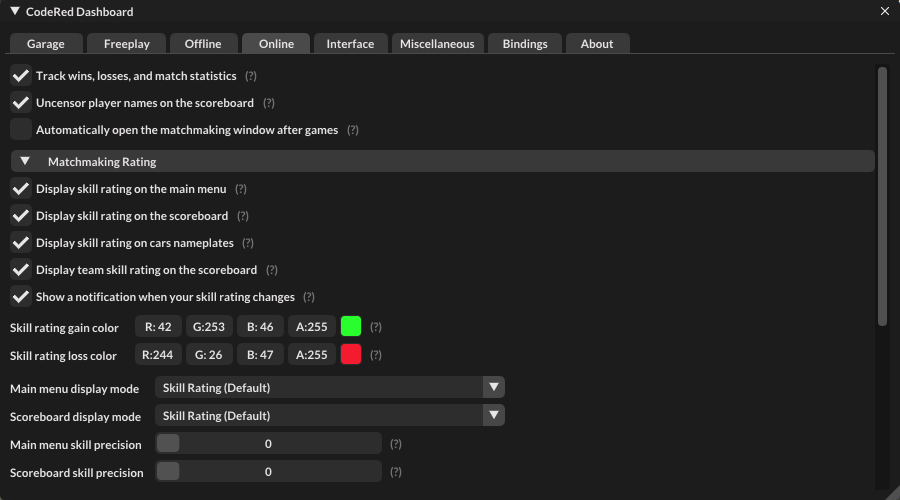
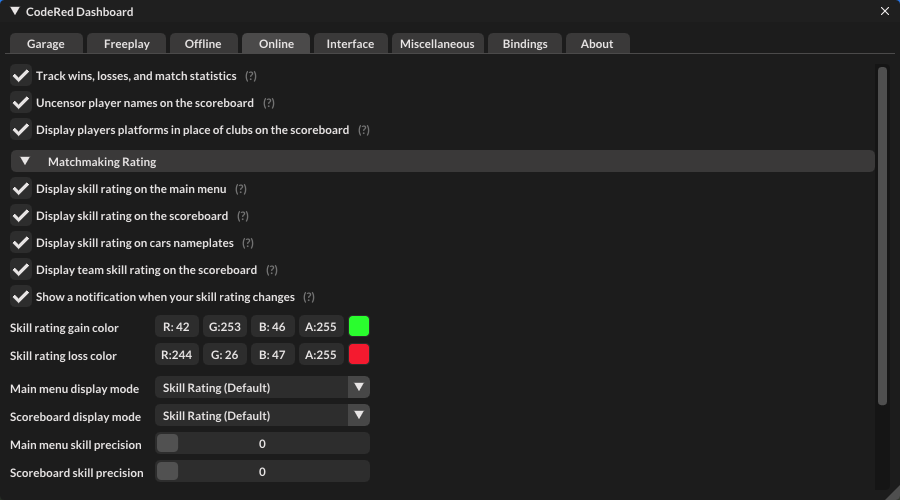
Initial Commit

diff --git a/documentation.html b/documentation.html
@@ -92,7 +92,7 @@
                     <li class="nav-item"><a class="nav-link scrollto" href="#item-6-3">Custom Titles</a></li>
                     <li class="nav-item"><a class="nav-link scrollto" href="#item-6-4">Bug Reporting</a></li>
 				    <li class="nav-item section-title mt-3"><a class="nav-link scrollto" href="#section-7"><span class="theme-icon-holder me-2"><i class="fas fa-book"></i></span>Changelog</a></li>
-				    <li class="nav-item"><a class="nav-link scrollto" href="#item-7-1">Version 1.2.8</a></li>
+				    <li class="nav-item"><a class="nav-link scrollto" href="#item-7-1">Version 1.2.89</a></li>
 			    </ul>
 		    </nav>
 	    </div>
@@ -1202,6 +1202,10 @@
                                         <td>Display teams skill rating average on the scoreboard.</td>
                                     </tr>
                                     <tr>
+                                        <th class="theme-bg-light"><b>scoreboard_display_platforms &lttrue-false&gt</b></th>
+                                        <td>Display players platform names in place of club tags on the scoreboard.</td>
+                                    </tr>
+                                    <tr>
                                         <th class="theme-bg-light"><b>scoreboard_hide_avatars &lttrue-false&gt</b></th>
                                         <td>Hide all player avatars on the scoreboard during matches.</td>
                                     </tr>
@@ -1748,14 +1752,26 @@
 					    <h1 class="docs-heading">Changelog</h1>
 				    </header>
 				     <section class="docs-section" id="item-7-1">
+                        <h2 class="section-heading">Version 1.2.9 (February 3rd 2023 2023)</h2>
+                        <h5>- Added the setting <code>scoreboard_display_platforms</code> which displays players platforms in place of club tags.</h5>
+                        <h5>- Fixed the <code>scoreboard_hide_clubs</code> setting not hiding club tags on the scoreboard.</h5>
+                        <h5>- Fixed the <code>garage_apply_both</code> setting in presets using the wrong team sometimes.</h5>
+                        <h5>- Fixed the <code>training_open_freeplay</code> command applying mutators to freeplay if you were in a lan match.</h5>
+                        <h5>- Fixed your title not restoring on the scoreboard if you selected "Nothing selected" during a match."</h5>
+                        <h5>- Fixed team names not restoring if you toggled <code>scoreboard_display_team</code> on and off.</h5>
+                        <h5>- Fixed the products in the Rocket Pass menu applying title attributes to non-title products.</h5>
+                        <h5>- Fixed the title combobox in the dashboard being empty if you opened the menu too early.</h5>
+                        <h5>- Fixed your preset not applying to the right team when you first loaded in private or lan matches.</h5>
+                        <h5>- Other internal changes and improvements with ImGui.</h5>
+
                         <h2 class="section-heading">Version 1.2.8 (January 29th 2023)</h2>
-                        <h5>- Added the command <code>interface_close_game</code> that closes the game (pretty fancy right?)."</h5>
+                        <h5>- Added the command <code>interface_close_game</code> that closes the game (pretty fancy right?).</h5>
                         <h5>- Added the setting <code>keys_rage_quits</code> that enables the use of "Alt-F4" to close the game (this secretly just calls <code>interface_close_game</code>).</h5>
                         <h5>- Renamed the <code>interface_disable_ads</code> setting to <code>replay_disable_ads</code>.</h5>
                         <h5>- Fixed the <code>interface_april_icons</code> setting sometimes restoring itself after a certain period of time</h5>
                         <h5>- Fixed some inconsistencies related to rendering custom scenes in the thumbnail renderer.</h5>
                         <h5>- Fixed a crash that could happen if you tried to call <code>unreal_command</code> during a loading screen.</h5>
-                        <h5>- Disabled the command <code>brank_tuna_time</code>, which hired the nearest homeless man to come to your house and make you a tuna salad sandwich. This resulted in the death of ten CodeRed users who had a shellfish allergy, to which I am now involved in earths deadliest tuna-related investigation.</h5>
+                        <h5>- Disabled the command <code>brank_tuna_time</code>, which hired the nearest homeless man to come to your house and make you a tuna salad sandwich. This resulted in the death of ten CodeRed users who had a fish allergy, to which I am now involved in earths deadliest tuna-related investigation.</h5>
 
                         <h2 class="section-heading">Version 1.2.7 (January 28th 2023)</h2>
                         <h5>- Fixed a bug related to presets not applying if you lost connection to the internet and then reconnected.</h5>
